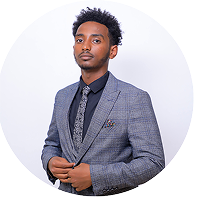
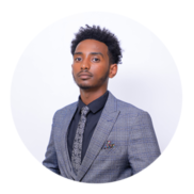
final test

Changed region(s): [[0.1237, 0.0309, 0.9588, 0.9897]]

diff --git a/src/components/HeroSection.tsx b/src/components/HeroSection.tsx
@@ -31,6 +31,14 @@ const Hero = () => {
     },
   };
 
+  const onTalent = () => {
+    window.open("https://calendar.app.google/fX4KJGUAozwXSmyP8", "_blank");
+  };
+
+  const onWork = () => {
+    window.open("https://forms.gle/aq97oYs1UFDataaM7", "_blank");
+  };
+
   return (
     <motion.div
       className="text-white mt-[25vh] lg:mt-[16vh]"
@@ -55,11 +63,17 @@ const Hero = () => {
         variants={itemVariants}
         className="flex justify-center gap-4 mt-10"
       >
-        <button className="border border-white py-3 px-5 rounded-full lg:rounded-2xl bg-gold-grad font-black hover:bg-gold-grad-hover cursor-pointer transition-all duration-300 hover:scale-105 active:scale-95 hover:brightness-110 active:brightness-110 shadow-lg text-[18px] lg:text-2xl">
+        <button
+          onClick={onTalent}
+          className="border border-white py-3 px-5 rounded-full lg:rounded-2xl bg-gold-grad font-black hover:bg-gold-grad-hover cursor-pointer transition-all duration-300 hover:scale-105 active:scale-95 hover:brightness-110 active:brightness-110 shadow-lg text-[18px] lg:text-2xl"
+        >
           FIND TALENT
         </button>
 
-        <button className="border border-white py-3 px-5 rounded-full lg:rounded-xl cursor-pointer font-black hover:bg-white hover:text-black active:bg-white active:text-black transition-all duration-300 hover:scale-105 hover:shadow-[0_0_15px_rgba(255,255,255,0.3)] text-[18px] lg:text-2xl">
+        <button
+          onClick={onWork}
+          className="border border-white py-3 px-5 rounded-full lg:rounded-xl cursor-pointer font-black hover:bg-white hover:text-black active:bg-white active:text-black transition-all duration-300 hover:scale-105 hover:shadow-[0_0_15px_rgba(255,255,255,0.3)] text-[18px] lg:text-2xl"
+        >
           FIND WORK
         </button>
       </motion.div>

diff --git a/src/pages/AboutUs.tsx b/src/pages/AboutUs.tsx
@@ -19,7 +19,7 @@ const founders = [
   },
   {
     name: "PHILI  Co-Founder and Head of Talent Acquisition",
-    image: "./Images/founders/phili.png",
+    image: "./Images/founders/phli.png",
     text: "Phil has produced strong sales outcomes, overseeing the entire sales process in high-volume outbound environments, standing out in lead generation and pipeline development, and as an Appointment Setter consistently creating qualified opportunities and closing between $500K–$1M in high-value deals across multiple sectors.",
   },
 ];
@@ -27,21 +27,21 @@ const founders = [
 const AboutUs = () => {
   return (
     <div className="bg-myBlue">
-      <div className="flex justify-between items-center bg-about-blue py-6 rounded-b-4xl shadow-lg shadow-[#8E8E8E]/25">
+      <div className="flex justify-between items-center bg-about-blue py-3 lg:py-6 rounded-b-4xl shadow-lg shadow-[#8E8E8E]/25">
         <a href="/">
           <img
             src="./Logo/Global-Access-Group.png"
             alt="Logo"
-            className="h-15 w-18"
+            className="h-15 lg:h-20 w-auto brightness-85"
           />
         </a>
 
-        <h1 className="text-center text-white text-4xl font-extrabold">
+        <h1 className="text-center text-white text-2xl lg:text-4xl font-extrabold">
           ABOUT US
         </h1>
         <div></div>
       </div>
-      <div className="mt-10 pt-15 mb-10 bg-about-hero min-h-screen">
+      <div className="mt-10 pt-15 mb-10 bg-about-hero-faded min-h-screen">
         <div className="flex flex-col gap-6 w-full">
           {founders.map((founder, index) => (
             <FounderCard

diff --git a/src/index.css b/src/index.css
@@ -87,14 +87,22 @@ p {
     #ab8050 100%
   );
 
-  --background-myBlue: linear-gradient(
+  /* --background-myBlue: linear-gradient(
     89.76deg,
     #101521 0.21%,
     #092042 27.98%,
     #092042 75.86%,
     #101521 99.8%
-  );
-
+  ); */
+  --background-myBlue:
+    linear-gradient(rgba(16, 21, 33, 0.7), rgba(16, 21, 33, 0.7)),
+    linear-gradient(
+      89.76deg,
+      #101521 0.21%,
+      #092042 27.98%,
+      #092042 75.86%,
+      #101521 99.8%
+    );
   --background-about-blue: linear-gradient(
     180deg,
     rgba(23, 38, 54, 0.5) 22%,

diff --git a/src/components/ServiceCard.tsx b/src/components/ServiceCard.tsx
@@ -50,7 +50,7 @@ const ServiceCard = ({ image, title, description, index }: card) => {
             {title}
           </p>
 
-          <div className="max-h-40 opacity-100 transition-all duration-700 overflow-hidden lg:max-h-0 lg:opacity-0 lg:group-hover:max-h-40 lg:group-hover:opacity-100">
+          <div className="max-h-40 opacity-100 transition-all overflow-hidden lg:max-h-0 lg:opacity-0 lg:group-hover:max-h-40 lg:group-hover:opacity-100">
             <img
               src="./Graphics/yellow-glow-light.png"
               alt=""

diff --git a/src/components/Navbar.tsx b/src/components/Navbar.tsx
@@ -27,7 +27,7 @@ const Navbar = () => {
           <img
             src="./Logo/Global-Access-Group.png"
             alt="Logo"
-            className="h-15 w-18"
+            className="h-15 lg:h-20 w-auto"
           />
           <p className="text-white text-lg font-bold hidden lg:block ">
             GLOBAL ACCESS GROUP
